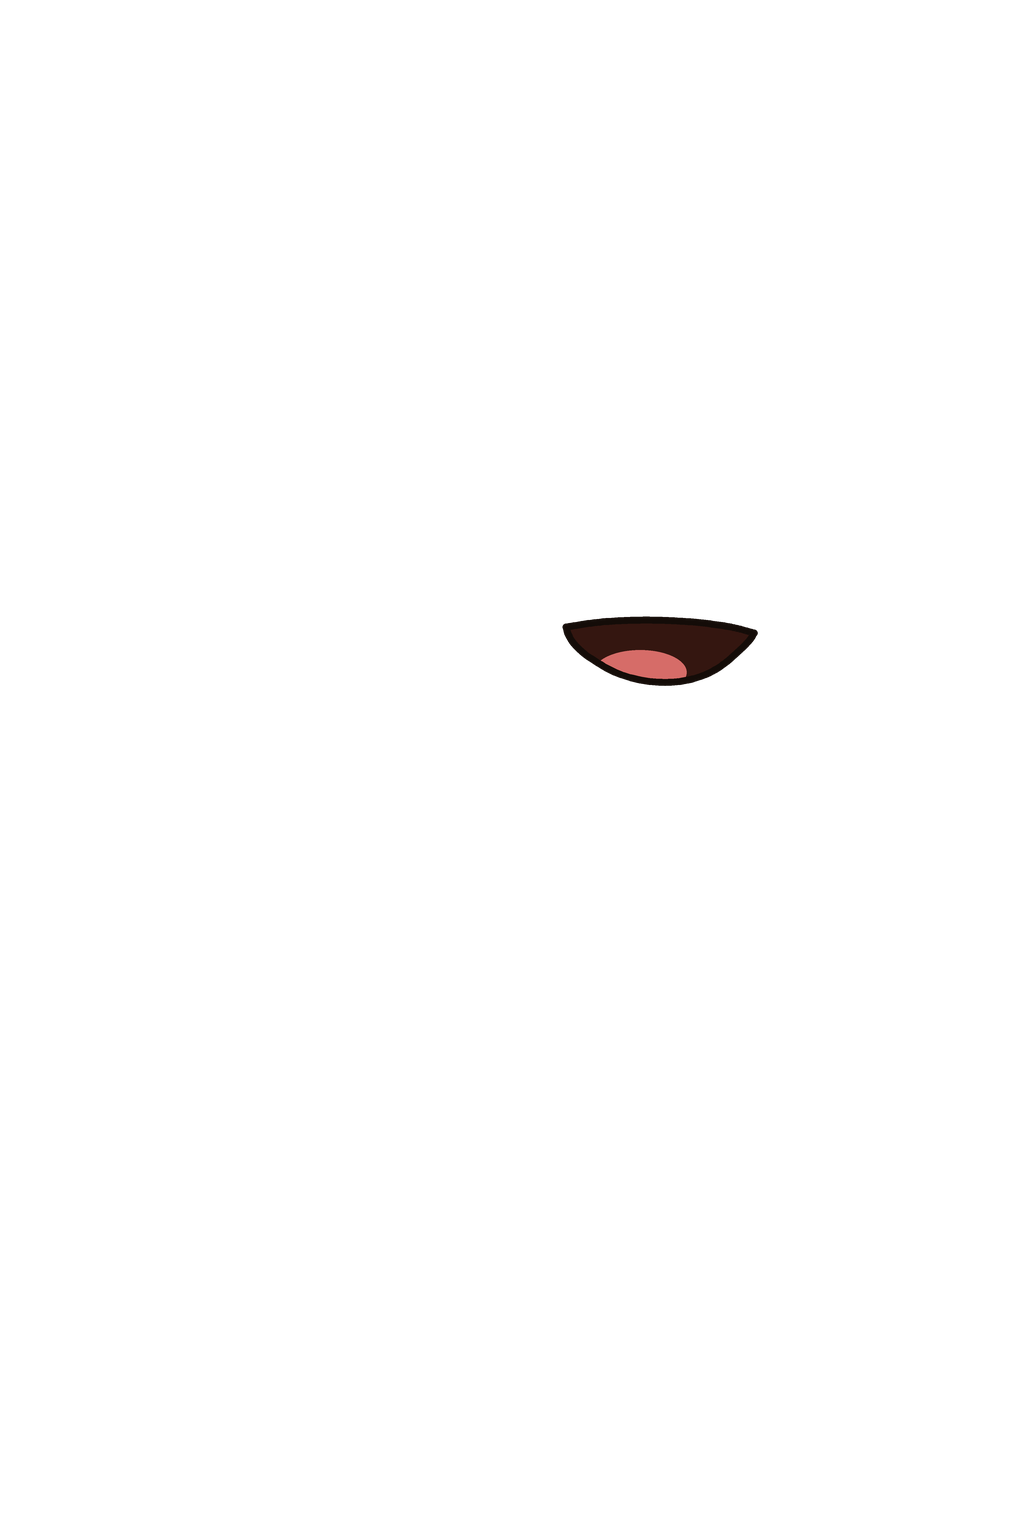
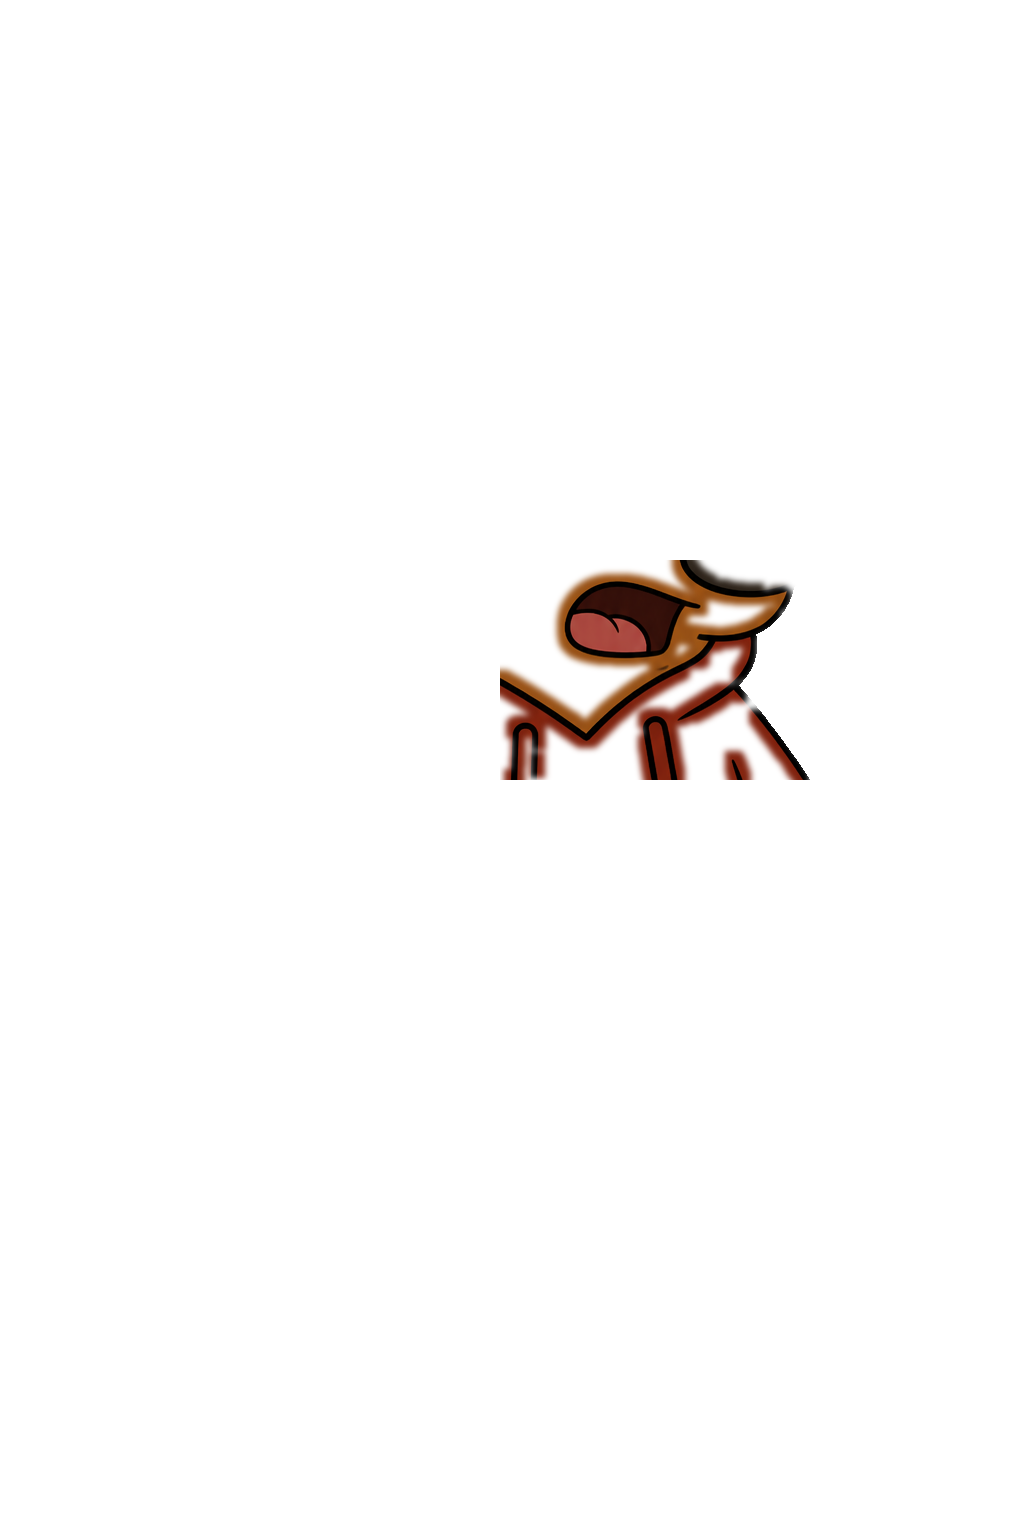
ごんべぇの口をChatGPTの絵から切り出してパーツ化（小・半開き・開き・大きく開く）
- renderer/rig/extract_patch.py：表情違いの絵から変わった部分だけを切り出し、色を基本の絵にそろえて重ねるパーツにする
- 自前で描いた口は parts/alt_drawn/ に退避
- character.json の口の登録を更新

Claude-Session: https://claude.ai/code/session_01333n6uA2jivLvtwjGtdnde

Changed region(s): [[0.4688, 0.3674, 0.7812, 0.5205]]

diff --git a/renderer/rig/extract_patch.py b/renderer/rig/extract_patch.py
@@ -1,0 +1,61 @@
+"""生成AIで作った表情違いの絵から、変わった部分（口・目など）だけを切り出して、
+基本の絵に重ねる透過パーツにする。
+
+- 基本の絵と比べて色が変わった所だけを使う（顔の形・ほかの部分は基本の絵のまま）
+- 生成AIの絵は色が少し濃くなるので、まわりの毛の色を基本の絵にそろえる
+- 背景が市松模様・黒でも、切り出す範囲は顔の中だけなので影響しない
+
+使い方：
+    python3 renderer/rig/extract_patch.py <基本の絵> <表情違いの絵> <出力> <範囲 x0,y0,x1,y1> [ずれ dx,dy]
+"""
+from __future__ import annotations
+
+import sys
+
+import numpy as np
+from PIL import Image, ImageFilter
+
+
+def extract(base_path, var_path, out_path, box, shift=(0, 0), thresh=38, grow=7, feather=3):
+    base = Image.open(base_path).convert("RGBA")
+    var = Image.open(var_path).convert("RGB")
+    W, H = base.size
+    if var.size != base.size or shift != (0, 0):
+        canvas = Image.new("RGB", base.size)
+        canvas.paste(var, (-shift[0], -shift[1]))
+        var = canvas
+    b = np.array(base).astype(float)
+    v = np.array(var).astype(float)
+    x0, y0, x1, y1 = box
+    region = np.zeros((H, W), bool)
+    region[y0:y1, x0:x1] = True
+    region &= b[..., 3] > 200
+
+    # 色合わせ：変わっていない毛の部分で、チャンネルごとの比率を求める
+    diff = np.abs(b[..., :3] - v).sum(axis=2)
+    same = region & (diff < 60) & (b[..., :3].sum(axis=2) > 150)
+    gain = (b[..., :3][same].mean(axis=0) + 1) / (v[same].mean(axis=0) + 1)
+    vc = np.clip(v * gain, 0, 255)
+
+    # 変わった所＝マスク（少し広げて、ふちをぼかす）
+    diff = np.abs(b[..., :3] - vc).sum(axis=2)
+    m = (region & (diff > thresh)).astype(np.uint8) * 255
+    mask = Image.fromarray(m).filter(ImageFilter.MaxFilter(3)).filter(ImageFilter.MinFilter(3))  # 小さな点を消す
+    mask = mask.filter(ImageFilter.MaxFilter(grow * 2 + 1)).filter(ImageFilter.GaussianBlur(feather))
+    reg = Image.fromarray((region * 255).astype(np.uint8))
+    mask = Image.fromarray(np.minimum(np.array(mask), np.array(reg)))
+
+    out = Image.fromarray(vc.astype(np.uint8)).convert("RGBA")
+    out.putalpha(mask)
+    out.save(out_path)
+    return gain
+
+
+if __name__ == "__main__":
+    if len(sys.argv) < 5:
+        print(__doc__)
+        sys.exit(1)
+    box = tuple(int(v) for v in sys.argv[4].split(","))
+    shift = tuple(int(v) for v in sys.argv[5].split(",")) if len(sys.argv) > 5 else (0, 0)
+    g = extract(sys.argv[1], sys.argv[2], sys.argv[3], box, shift)
+    print("色合わせ", np.round(g, 3))
